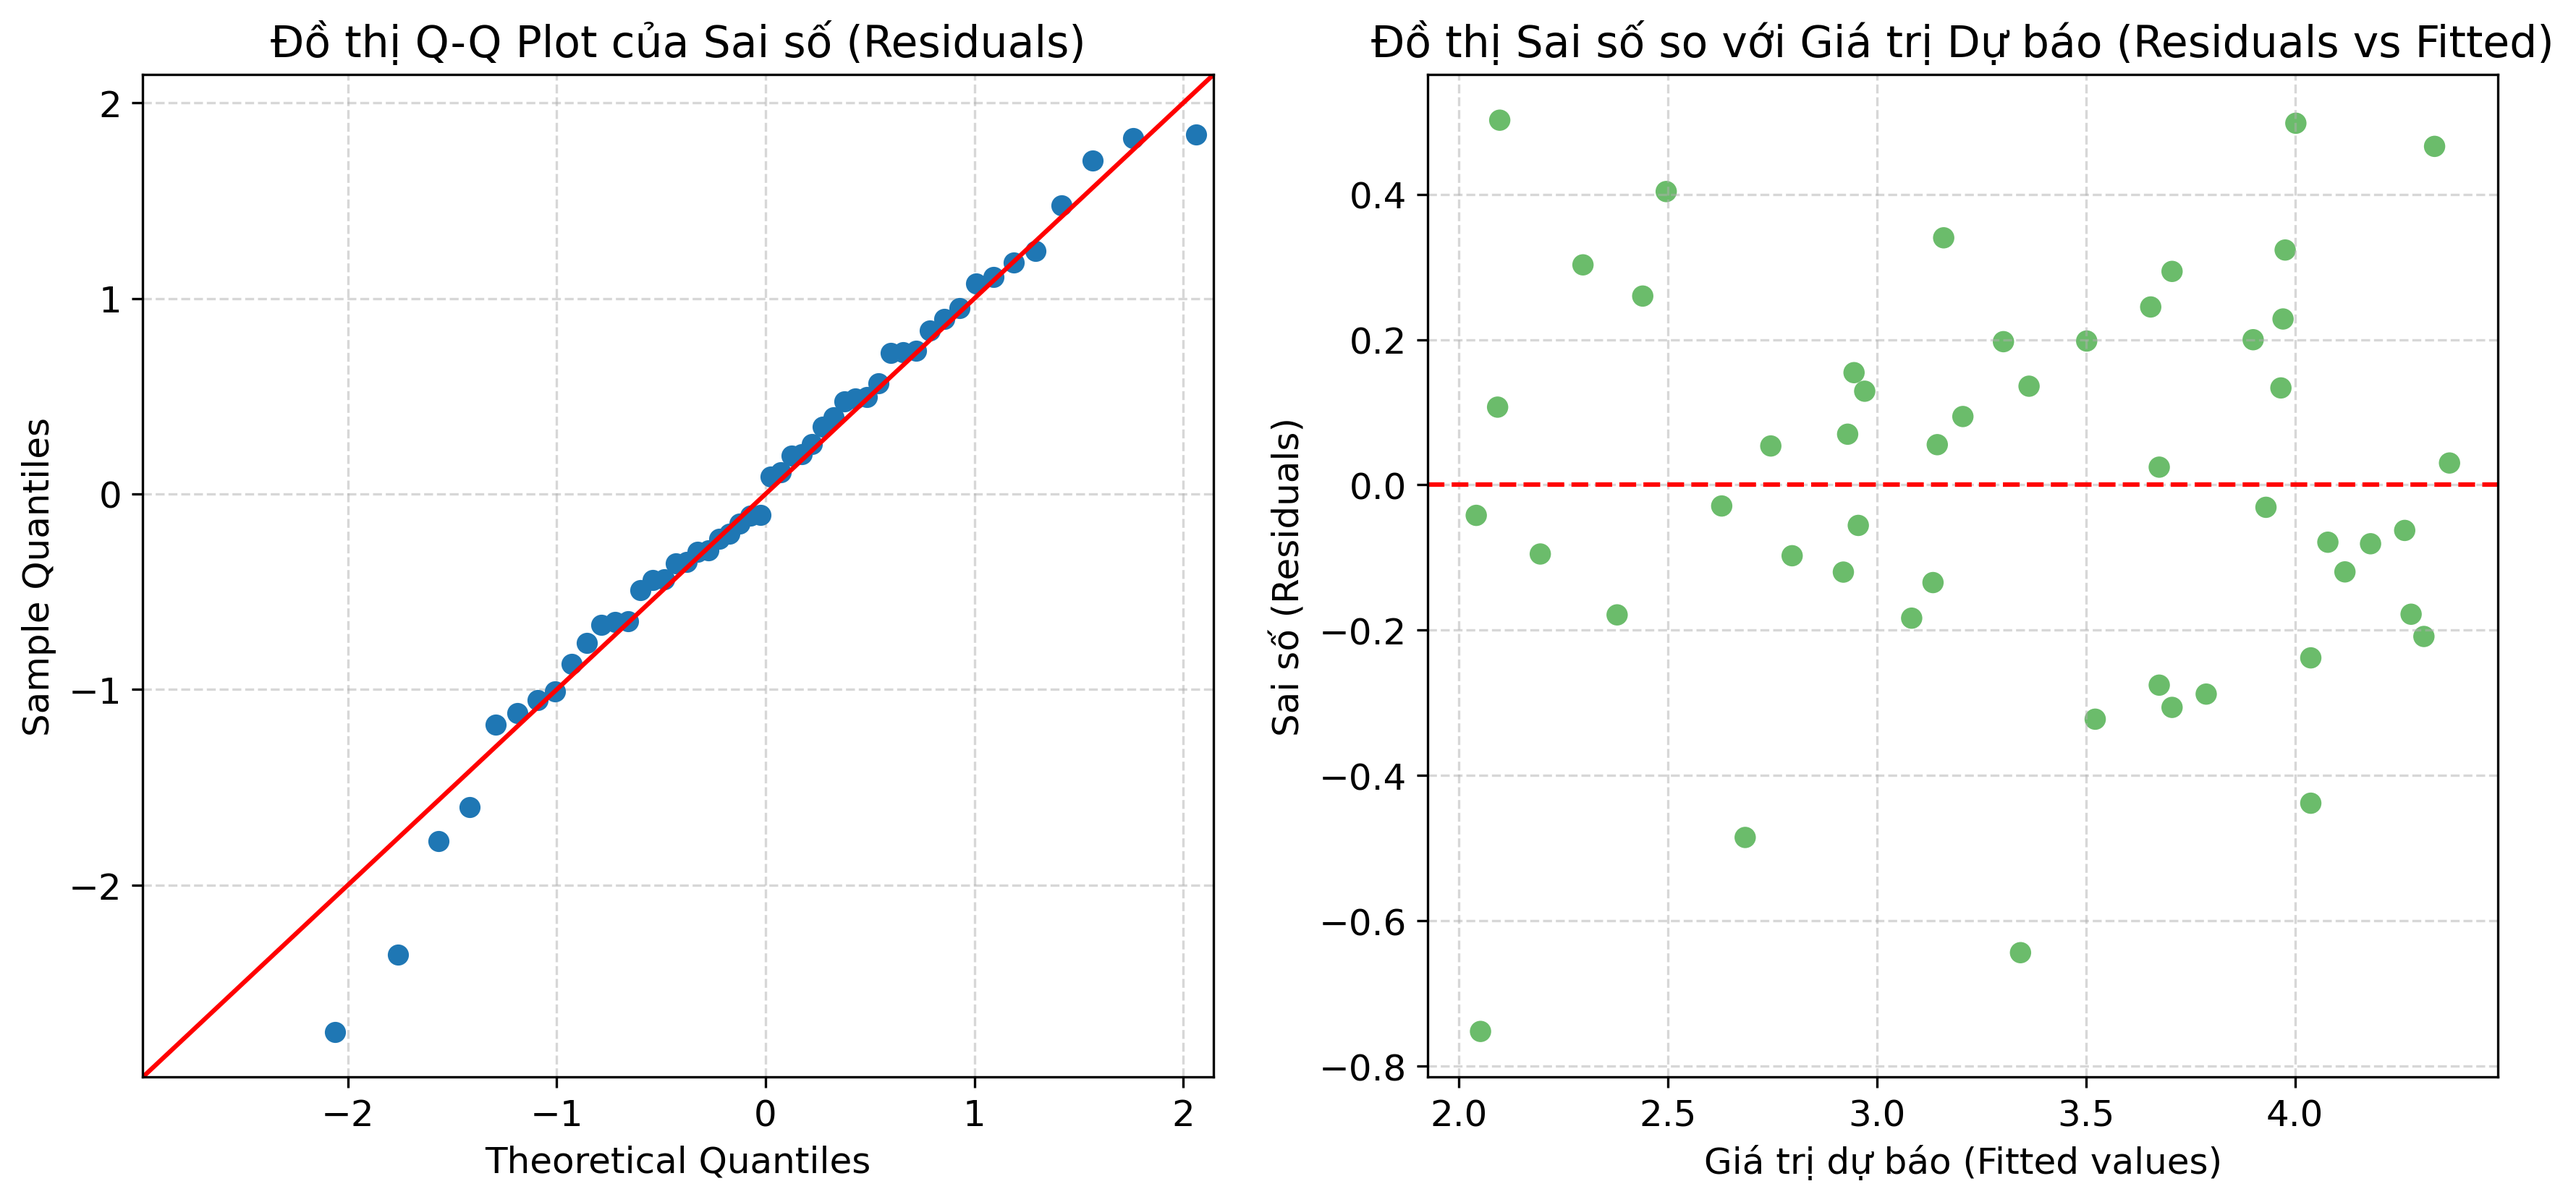
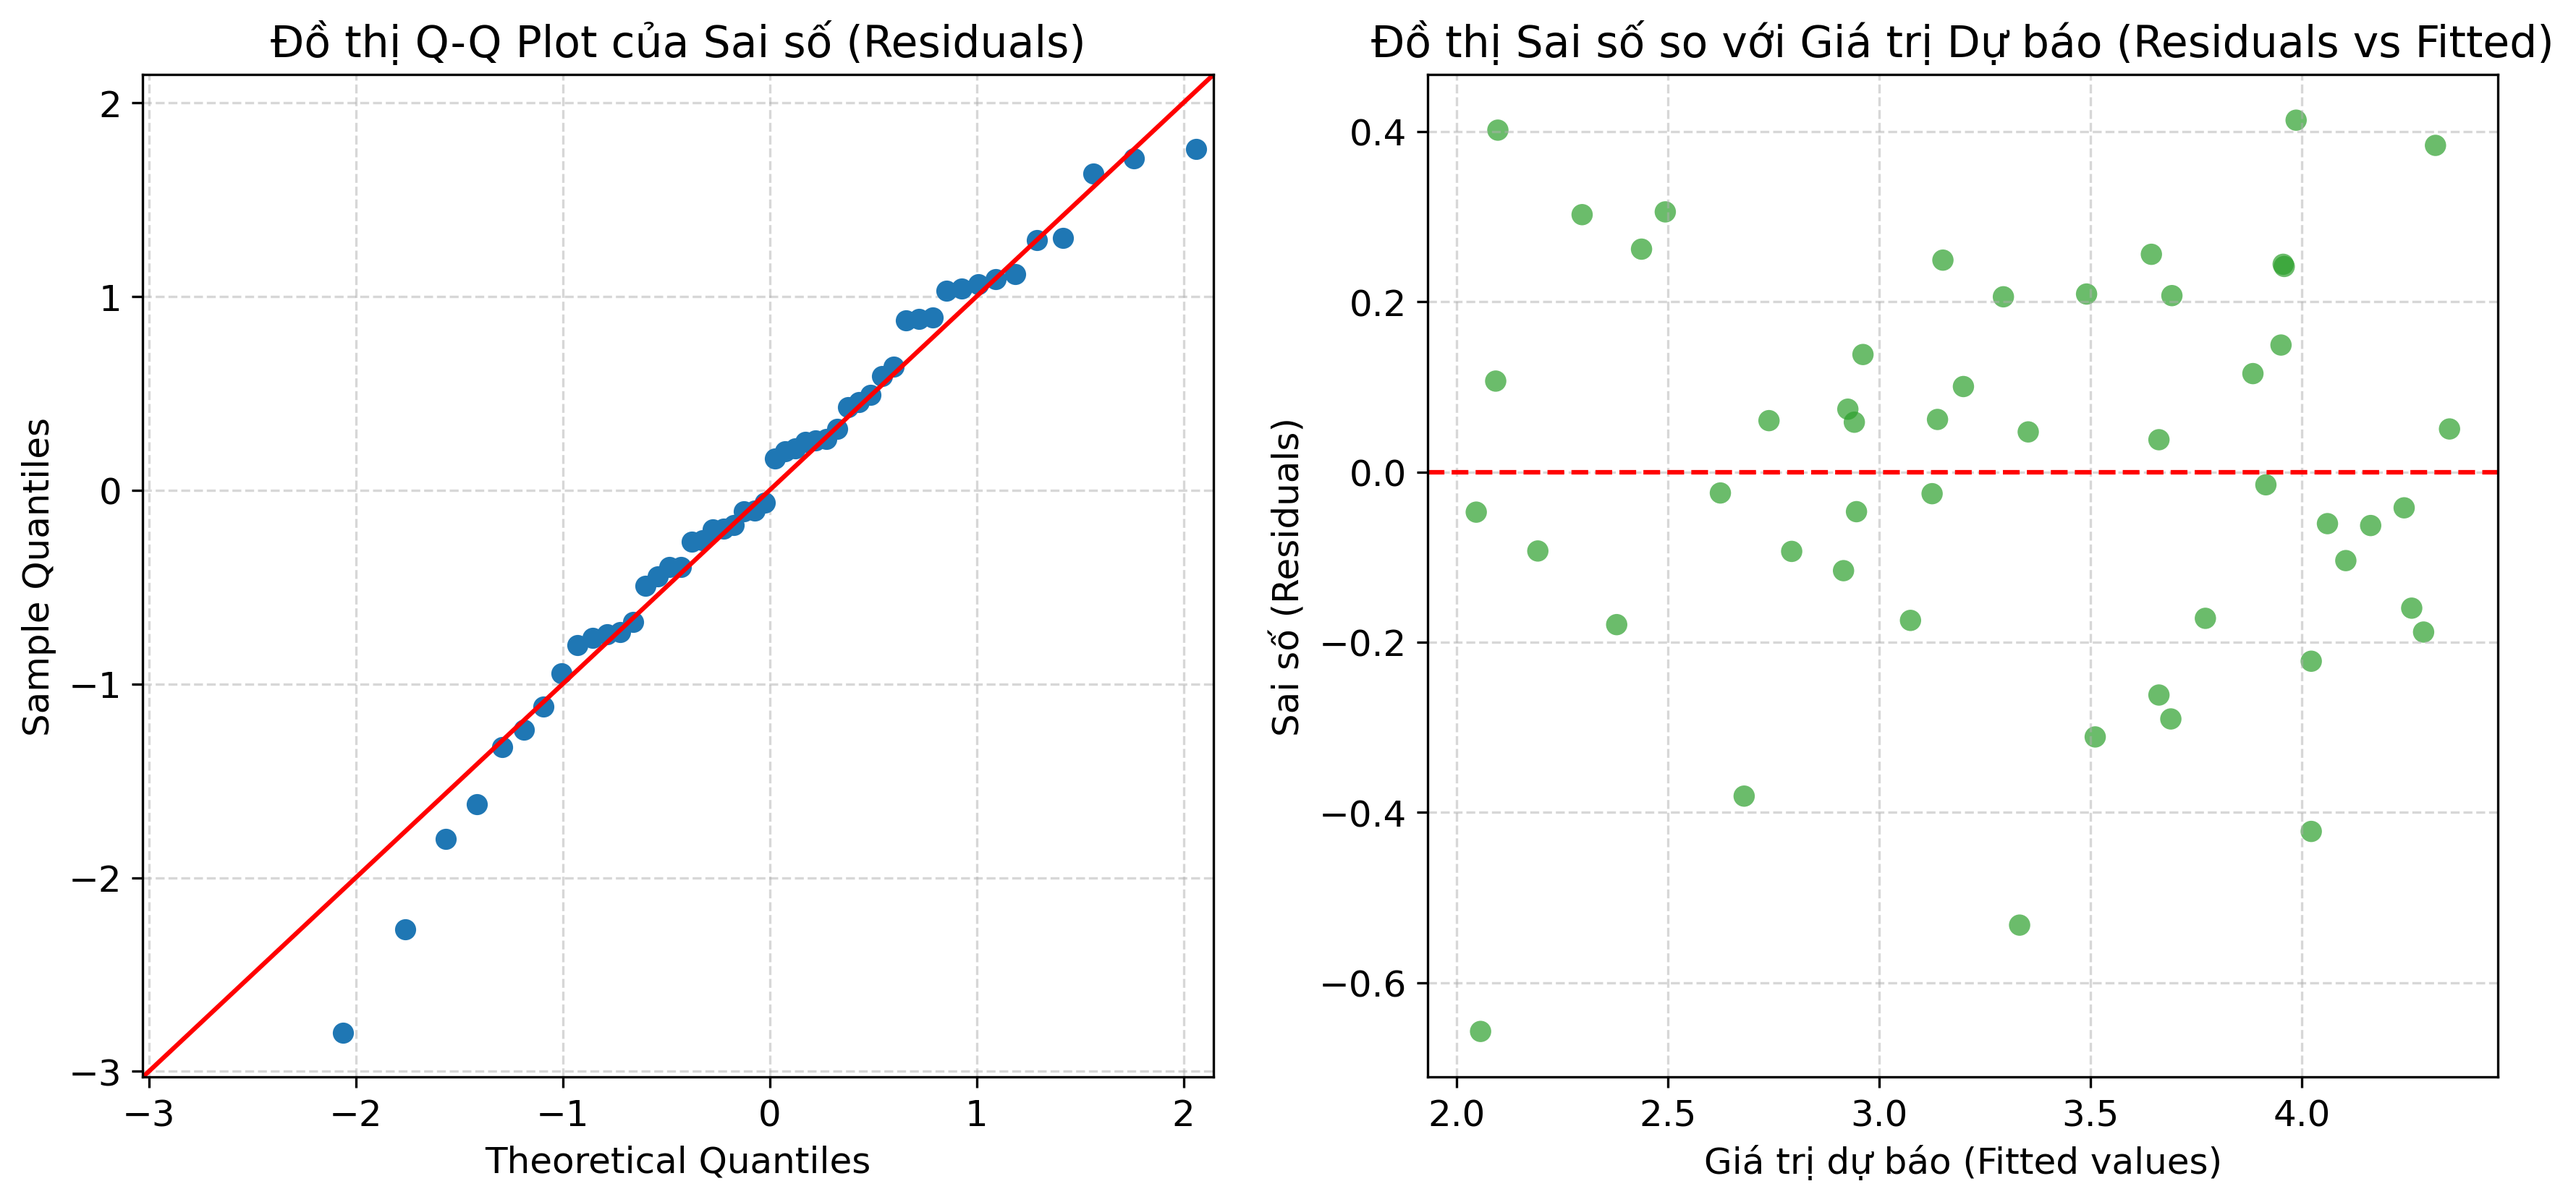
Update rent analysis model for 10km distance and 2M rent price

diff --git a/data_generator.py b/data_generator.py
@@ -9,21 +9,22 @@ np.random.seed(42)
 n_samples = 50
 
 # 1. Sinh ngẫu nhiên khoảng cách (Distance) từ trọ tới trường (đơn vị: km)
-# Dao động từ 0.2 km đến 5.0 km
-distances = np.round(np.random.uniform(0.2, 5.0, n_samples), 2)
+# Dao động từ 0.5 km đến 10.0 km
+distances = np.round(np.random.uniform(0.5, 10.0, n_samples), 2)
 
 # 2. Sinh giá thuê trọ (RentPrice) dựa trên khoảng cách (đơn vị: triệu VNĐ/tháng)
 # Giả sử giá trọ trung bình sát trường (distance = 0) là 4.5 triệu.
-# Cứ xa trường thêm 1km thì giá giảm trung bình khoảng 0.5 triệu.
-# Sai số ngẫu nhiên (noise) tuân theo phân phối chuẩn với độ lệch chuẩn là 0.3 triệu VNĐ.
-noise = np.random.normal(0, 0.3, n_samples)
-rent_prices = 4.5 - 0.5 * distances + noise
+# Để trọ cách 10km có giá trung bình khoảng 2.0 triệu:
+# Ta chọn hệ số góc giảm trung bình là 0.25 triệu/km (4.5 - 0.25 * 10 = 2.0 triệu).
+# Sai số ngẫu nhiên (noise) tuân theo phân phối chuẩn với độ lệch chuẩn là 0.25 triệu VNĐ.
+noise = np.random.normal(0, 0.25, n_samples)
+rent_prices = 4.5 - 0.25 * distances + noise
 
 # Làm tròn giá thuê đến 1 chữ số thập phân (ví dụ 3.2 triệu, 2.5 triệu)
 rent_prices = np.round(rent_prices, 1)
 
-# Giới hạn giá trọ tối thiểu là 1.2 triệu (không thể âm hoặc quá rẻ)
-rent_prices = np.clip(rent_prices, 1.2, 5.5)
+# Giới hạn giá trọ tối thiểu là 1.0 triệu (không thể âm hoặc quá rẻ)
+rent_prices = np.clip(rent_prices, 1.0, 5.5)
 
 # 3. Tạo DataFrame và lưu thành file CSV
 df = pd.DataFrame({
